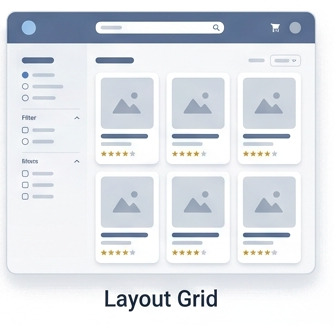
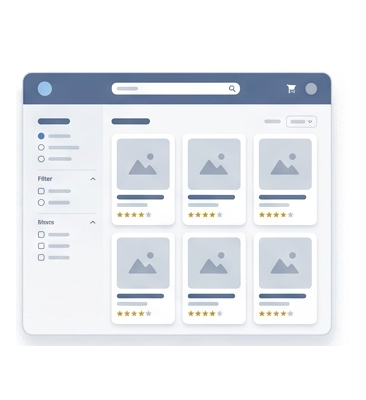
feat(illustrations): unify height to 400px, remove bottom text, and vertically center all 5 atomic design illustrations

diff --git a/assets/vctrl_component_library.js b/assets/vctrl_component_library.js
@@ -671,7 +671,7 @@ window.V4_COMPONENT_LIBRARY = {
             name: '11. 아토믹 - Atoms',
             koName: '11 아토믹 원자 atoms button icon color typography 기초단위',
             category: 'Illustration',
-            width: '160px',
+            width: '120px',
             height: '240px',
             thumb: 'assets/illustrations/atomic_atoms.png',
             previewHtml: `<img src="assets/illustrations/atomic_atoms.png" style="width: 100%; height: 100%; object-fit: contain; border-radius: 6px;">`,
@@ -682,8 +682,8 @@ window.V4_COMPONENT_LIBRARY = {
             name: '12. 아토믹 - Molecules',
             koName: '12 아토믹 분자 molecules button input searchbar 결합단위',
             category: 'Illustration',
-            width: '180px',
-            height: '260px',
+            width: '126px',
+            height: '240px',
             thumb: 'assets/illustrations/atomic_molecules.png',
             previewHtml: `<img src="assets/illustrations/atomic_molecules.png" style="width: 100%; height: 100%; object-fit: contain; border-radius: 6px;">`,
             html: `<div class="v4-illustration-container" style="width: 100%; height: 100%; display: flex; align-items: center; justify-content: center; pointer-events: auto;"><img src="assets/illustrations/atomic_molecules.png" alt="아토믹 디자인 - Molecules" style="width: 100%; height: 100%; object-fit: contain; pointer-events: none; user-select: none;"></div>`
@@ -693,8 +693,8 @@ window.V4_COMPONENT_LIBRARY = {
             name: '13. 아토믹 - Organisms',
             koName: '13 아토믹 유기체 organisms card gnb header footer 복합단위',
             category: 'Illustration',
-            width: '220px',
-            height: '280px',
+            width: '160px',
+            height: '240px',
             thumb: 'assets/illustrations/atomic_organisms.png',
             previewHtml: `<img src="assets/illustrations/atomic_organisms.png" style="width: 100%; height: 100%; object-fit: contain; border-radius: 6px;">`,
             html: `<div class="v4-illustration-container" style="width: 100%; height: 100%; display: flex; align-items: center; justify-content: center; pointer-events: auto;"><img src="assets/illustrations/atomic_organisms.png" alt="아토믹 디자인 - Organisms" style="width: 100%; height: 100%; object-fit: contain; pointer-events: none; user-select: none;"></div>`
@@ -704,7 +704,7 @@ window.V4_COMPONENT_LIBRARY = {
             name: '14. 아토믹 - Layout',
             koName: '14 아토믹 레이아웃 layout grid templates 구조 뼈대',
             category: 'Illustration',
-            width: '260px',
+            width: '220px',
             height: '240px',
             thumb: 'assets/illustrations/atomic_layout.png',
             previewHtml: `<img src="assets/illustrations/atomic_layout.png" style="width: 100%; height: 100%; object-fit: contain; border-radius: 6px;">`,
@@ -715,8 +715,8 @@ window.V4_COMPONENT_LIBRARY = {
             name: '15. 아토믹 - Pages',
             koName: '15 아토믹 페이지 pages screens mobile 완성화면 최종산출물',
             category: 'Illustration',
-            width: '260px',
-            height: '280px',
+            width: '220px',
+            height: '240px',
             thumb: 'assets/illustrations/atomic_pages.png',
             previewHtml: `<img src="assets/illustrations/atomic_pages.png" style="width: 100%; height: 100%; object-fit: contain; border-radius: 6px;">`,
             html: `<div class="v4-illustration-container" style="width: 100%; height: 100%; display: flex; align-items: center; justify-content: center; pointer-events: auto;"><img src="assets/illustrations/atomic_pages.png" alt="아토믹 디자인 - Pages" style="width: 100%; height: 100%; object-fit: contain; pointer-events: none; user-select: none;"></div>`

diff --git a/viewer.html b/viewer.html
@@ -563,7 +563,7 @@
     <script src="assets/vctrl_responsive_pins.js?v=V352_PASTE_POINTER_LOCK_FIX"></script>
     <script src="assets/vctrl_grouping.js?v=V352_PASTE_POINTER_LOCK_FIX"></script>
     <script src="assets/vctrl_color_picker.js?v=V352_PASTE_POINTER_LOCK_FIX"></script>
-    <script src="assets/vctrl_component_library.js?v=V351_ATOMIC_TRANSPARENT_ILLUSTRATIONS"></script>
+    <script src="assets/vctrl_component_library.js?v=V352_UNIFIED_HEIGHT_ILLUSTRATIONS"></script>
     <script src="assets/vctrl_inspector.js?v=V352_PASTE_POINTER_LOCK_FIX"></script>
     <script src="assets/vctrl_screen_manager.js?v=V352_PASTE_POINTER_LOCK_FIX"></script>
     <script src="assets/vctrl_annotation_pins.js?v=V352_PASTE_POINTER_LOCK_FIX"></script>
